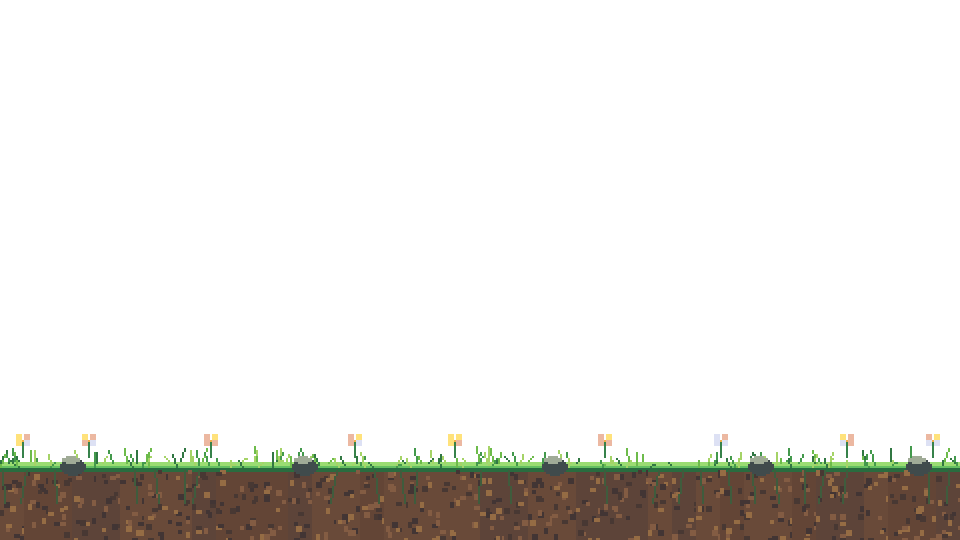
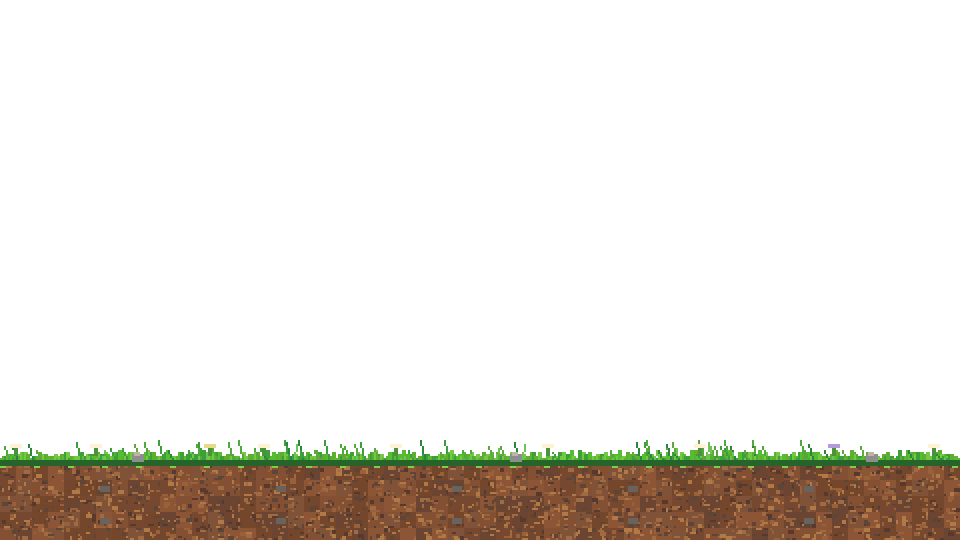
Slimefall v0.6 visual fidelity pass: small tile scale, forest sprites and compact HUD

Changed region(s): [[0.0, 0.8, 1.0, 1.0]]

diff --git a/src/game.js b/src/game.js
@@ -1,4 +1,4 @@
-/* Slimefall: Forest Art Pass v0.5 — an original mobile-first pixel-art boss encounter.
+/* Slimefall: World-Scale Art Pass v0.6 — an original mobile-first pixel-art boss encounter.
    Hand-coded art and mechanics informed by genre research; no Terraria assets used.
    Runs as a static Phaser 3 site. */
 (() => {
@@ -177,8 +177,8 @@
       makeArt(this);this.backdrop();this.land();this.actors();this.interface();
       this.keys=this.input.keyboard.addKeys('A,D,LEFT,RIGHT,SPACE,UP,W,J,K,P,ESC,ENTER,SHIFT');
       this.input.keyboard.addCapture(['SPACE','UP','LEFT','RIGHT','SHIFT']);
-      this.overlay('SLIMEFALL','THE EMERALD FOREST  •  v0.5','A handcrafted pixel forest. One royal slime. One chance to claim the crown.','BEGIN BATTLE');
-      window.slimefall={version:'0.5.0',game:this.game,play:()=>this.closeOverlay(),state:()=>({playing:this.playing,hp:this.hp,bossHP:this.bossHP,bossState:this.bossState,weapon:this.mode,minis:this.minis.length,time:Math.floor(this.seconds)}),reset:()=>this.scene.restart()};
+      this.overlay('SLIMEFALL','FOREST BOSS RUSH  •  v0.6','A small adventurer. A very large slime.','PLAY');
+      window.slimefall={version:'0.6.0',game:this.game,play:()=>this.closeOverlay(),state:()=>({playing:this.playing,hp:this.hp,bossHP:this.bossHP,bossState:this.bossState,weapon:this.mode,minis:this.minis.length,time:Math.floor(this.seconds)}),reset:()=>this.scene.restart()};
     }
     backdrop(){
       const rng=rand(39071),sky=this.add.graphics().setDepth(-60);
@@ -207,7 +207,7 @@
         const fleck=this.add.rectangle(rng()*W,235+rng()*206,i%3?3:4,3,i%4?0xffe79a:0xe0fbcb,.35+rng()*.3).setDepth(-12);
         this.tweens.add({targets:fleck,y:fleck.y-28-rng()*16,alpha:.04,duration:1600+rng()*2800,yoyo:true,repeat:-1,delay:rng()*2100});
       }
-      // v0.5 artwork covers earlier geometric placeholders with authored 2px pixels.
+      // v0.6 grid-aligned art replaces old oversized geometric scenery with authored 2px pixels.
       // Placed above primitive scenery but behind motes, platforms and characters.
       if(this.textures.exists('forest-background'))
         this.add.image(0,0,'forest-background').setOrigin(0,0).setDepth(-20);
@@ -269,33 +269,54 @@
       this.player.setFlipX(false);
     }
     interface(){
+      // A compact game HUD, not oversized dashboard cards. Gameplay stays unchanged.
       const ui=this.add.graphics().setDepth(90);
-      rect(ui,0x173c49,16,14,212,66,.85);rect(ui,0x173c49,291,14,379,70,.86);
-      rect(ui,0x90cfca,16,14,212,3);rect(ui,0xd6c28c,291,14,379,3);
-      this.add.text(27,22,'ADVENTURER',{fontFamily:'monospace',fontSize:'13px',fontStyle:'bold',color:'#e9f5ec',letterSpacing:1}).setDepth(92);
-      this.add.text(307,21,'THE VERDANT CROWN',{fontFamily:'monospace',fontSize:'15px',fontStyle:'bold',color:'#fff1bc'}).setDepth(92);
-      this.hearts=this.add.text(27,45,'', {fontFamily:'monospace',fontSize:'22px',color:'#ff7788'}).setDepth(92);
-      this.bossBar=this.add.graphics().setDepth(92);
-      this.weaponName=this.add.text(24,88,'', {fontFamily:'monospace',fontSize:'14px',fontStyle:'bold',color:'#ffffff',stroke:'#1e374c',strokeThickness:3}).setDepth(92);
-      this.timeText=this.add.text(932,22,'00:00',{fontFamily:'monospace',fontSize:'15px',color:'#28546e',stroke:'#c4e6e4',strokeThickness:2}).setDepth(92).setOrigin(1,0);
-      this.telegraphText=this.add.text(480,111,'',{fontFamily:'monospace',fontSize:'17px',fontStyle:'bold',color:'#fff6bc',stroke:'#254b5b',strokeThickness:5}).setOrigin(.5).setDepth(96);
+      // 5 small, translucent hotbar slots in the upper left, pixel borders.
+      for(let i=0;i<5;i++){
+        const x=13+i*40, y=12;
+        rect(ui,0x202b40,x,y,36,36,.72);
+        rect(ui,0x9a9b9f,x,y,36,2,.80);rect(ui,0x757b8d,x,y+34,36,2,.80);
+        rect(ui,0xa7aabb,x,y,2,36,.80);rect(ui,0x343c50,x+34,y,2,36,.80);
+        if(i===0){rect(ui,0xbdd4db,x+15,y+5,4,17);rect(ui,0x6f9aaa,x+16,y+5,2,11);rect(ui,0xb17a4c,x+11,y+20,11,3);rect(ui,0x7a573d,x+16,y+23,2,6);}
+        if(i===1){rect(ui,0xaa91f5,x+16,y+7,5,9);rect(ui,0xf4e4ff,x+17,y+5,2,4);rect(ui,0x73549c,x+17,y+16,3,13);}
+        if(i>=2){rect(ui,0x666c78,x+11,y+13,12,10,.3);}
+      }
+      this.slotOutline=this.add.graphics().setDepth(94);
+      this.weaponName=this.add.text(14,54,'',{fontFamily:'monospace',fontSize:'12px',fontStyle:'bold',color:'#f7f3df',stroke:'#3e3840',strokeThickness:3}).setDepth(92);
+      this.add.text(751,13,'Life',{fontFamily:'monospace',fontSize:'14px',fontStyle:'bold',color:'#fff5dd',stroke:'#4f405a',strokeThickness:3}).setDepth(92);
+      this.hearts=this.add.text(793,9,'',{fontFamily:'monospace',fontSize:'23px',color:'#ff425c',stroke:'#542e3f',strokeThickness:3}).setDepth(92);
+      this.add.text(757,42,'Mana',{fontFamily:'monospace',fontSize:'12px',color:'#ede1fe',stroke:'#4f405a',strokeThickness:2}).setDepth(92);
       this.manaBar=this.add.graphics().setDepth(92);
+      this.bossBar=this.add.graphics().setDepth(92);
+      this.add.text(W/2,17,'THE VERDANT CROWN',{fontFamily:'monospace',fontSize:'13px',fontStyle:'bold',color:'#fff8dc',stroke:'#344a59',strokeThickness:3}).setOrigin(.5).setDepth(94);
       this.dashBar=this.add.graphics().setDepth(92);
-      this.tipText=this.add.text(482,508,'MOVE  •  DOUBLE JUMP  •  DASH  •  ATTACK  •  SWITCH',{fontFamily:'monospace',fontSize:'12px',fontStyle:'bold',color:'#faf8d0',stroke:'#1d5252',strokeThickness:3}).setOrigin(.5).setDepth(91);
+      this.timeText=this.add.text(936,84,'00:00',{fontFamily:'monospace',fontSize:'12px',color:'#f3f2df',stroke:'#3a5665',strokeThickness:2}).setDepth(92).setOrigin(1,0);
+      this.telegraphText=this.add.text(480,107,'',{fontFamily:'monospace',fontSize:'16px',fontStyle:'bold',color:'#fff0a5',stroke:'#2b4351',strokeThickness:4}).setOrigin(.5).setDepth(96);
+      this.tipText=this.add.text(482,518,'MOVE  •  DOUBLE JUMP  •  DASH  •  ATTACK  •  SWITCH',{fontFamily:'monospace',fontSize:'12px',fontStyle:'bold',color:'#faf8d0',stroke:'#1d5252',strokeThickness:3}).setOrigin(.5).setDepth(91);
       if(window.matchMedia&&window.matchMedia('(pointer:coarse)').matches)this.tipText.setVisible(false);
       this.later(7000,()=>this.tipText.setVisible(false));
-      this.toast=this.add.text(W/2,153,'',{fontFamily:'monospace',fontSize:'14px',fontStyle:'bold',color:'#f5fff7',stroke:'#315a53',strokeThickness:3}).setOrigin(.5).setDepth(95);
+      this.toast=this.add.text(W/2,137,'',{fontFamily:'monospace',fontSize:'14px',fontStyle:'bold',color:'#f5fff7',stroke:'#315a53',strokeThickness:3}).setOrigin(.5).setDepth(95);
       this.redrawUI();
     }
     redrawUI(){
       this.hearts.setText('♥'.repeat(this.hp)+'♡'.repeat(this.maxHP-this.hp));
-      this.weaponName.setText(this.mode==='blade'?'⚔  LEAFBLADE • CLOSE RANGE':'✦  STAR WAND • AUTO AIM');
-      this.bossBar.clear();rect(this.bossBar,0x163748,308,53,343,17);rect(this.bossBar,0xa6dbf2,311,56,337*Math.max(0,this.bossHP/this.bossMax),11);
-      rect(this.bossBar,0xffffff,312,57,335*Math.max(0,this.bossHP/this.bossMax),2,.55);
-      this.manaBar.clear();rect(this.manaBar,0x284968,25,107,150,6,.85);rect(this.manaBar,0xa798f1,26,108,this.mana/100*148,4);
-      this.dashBar.clear();rect(this.dashBar,0x285769,25,120,150,7,.8);
-      const ready=Math.min(1,Math.max(0,(this.clock-this.lastDash)/1000));
-      rect(this.dashBar,0x8eedc7,27,122,146*ready,3);
+      this.weaponName.setText(this.mode==='blade'?'1 • Leafblade':'2 • Star Wand');
+      this.slotOutline.clear();
+      const sx=this.mode==='blade'?11:51;
+      const light=0xf5dfa4;
+      rect(this.slotOutline,light,sx,10,40,2);rect(this.slotOutline,light,sx,48,40,2);
+      rect(this.slotOutline,light,sx,10,2,40);rect(this.slotOutline,light,sx+38,10,2,40);
+      this.bossBar.clear();
+      rect(this.bossBar,0x172939,327,36,306,13,.86);
+      rect(this.bossBar,0x6e7a84,329,38,302,9,.85);
+      rect(this.bossBar,0x91c9eb,330,39,300*Math.max(0,this.bossHP/this.bossMax),7);
+      rect(this.bossBar,0xc6efff,330,39,300*Math.max(0,this.bossHP/this.bossMax),2,.68);
+      this.manaBar.clear();
+      rect(this.manaBar,0x2a3457,797,45,134,8,.92);
+      rect(this.manaBar,0x737ee8,799,47,130*this.mana/100,4);
+      this.dashBar.clear();
+      rect(this.dashBar,0x213546,15,74,137,7,.65);
+      rect(this.dashBar,0x99e4c2,17,76,133*Math.min(1,Math.max(0,(this.clock-this.lastDash)/1000)),3);
     }
     overlay(title,eyebrow,description,action){
       this.playing=false;el('shell').classList.add('menu-open');
@@ -610,5 +631,5 @@
     physics:{default:'arcade',arcade:{gravity:{y:1340},debug:false}},render:{roundPixels:true},
     scene:[VerdantCourt]
   });
-  window.slimefall={version:'0.5.0',game};
+  window.slimefall={version:'0.6.0',game};
 })();

diff --git a/index.html b/index.html
@@ -5,8 +5,8 @@
   <meta name="viewport" content="width=device-width, initial-scale=1, maximum-scale=1, viewport-fit=cover, user-scalable=no"/>
   <meta name="theme-color" content="#24576b"/>
   <meta name="description" content="Slimefall: The Verdant Crown, a free original mobile-friendly pixel-art boss battle."/>
-  <title>Slimefall — Forest Art Pass v0.5</title>
-  <link rel="stylesheet" href="src/style.css?v=0.5.0"/>
+  <title>Slimefall — Forest Art Pass v0.6</title>
+  <link rel="stylesheet" href="src/style.css?v=0.6.0"/>
 </head>
 <body>
   <main id="shell">
@@ -22,6 +22,6 @@
   </main>
   <script src="https://cdnjs.cloudflare.com/ajax/libs/phaser/3.86.0/phaser.min.js"></script>
   <script>if(!window.Phaser)document.getElementById('game').textContent='Could not load the Phaser game engine. Check your connection and reload.';</script>
-  <script src="src/game.js?v=0.5.0"></script>
+  <script src="src/game.js?v=0.6.0"></script>
 </body>
 </html>

diff --git a/src/style.css b/src/style.css
@@ -57,3 +57,13 @@ button{font-family:inherit;cursor:pointer;touch-action:none;-webkit-appearance:n
 .dash{background:#458876c7}
 #rotate{border-radius:2px}
 @media (pointer:coarse) and (max-height:430px){.control{opacity:.87}}
+
+/* v0.6: visual-scale pass. Keep touch targets large, make their treatment unobtrusive. */
+#banner{display:none}
+#top-actions{top:calc(68px + env(safe-area-inset-top))}
+#top-actions button{min-width:33px;height:31px;background:#34475d9a;border:1px solid #c8d0e4a4;border-radius:2px;font-size:16px;box-shadow:0 2px 0 #1724377a}
+.control{border:2px solid #c2c6ce98;border-radius:6px;background:#26394f8a;color:#eff8f6;box-shadow:0 3px 0 #1924338c,inset 0 1px #ffffff33;text-shadow:0 2px #182333b0}
+.attack{background:#6d4c65a3;border-color:#f3bdc5a0}
+.jump{background:#355e76a3}
+.alt,.dash{background:#5261549c}
+.control:active,.control.pressed{background:#648a6dd6;border-color:#f8e8aa}

diff --git a/README.md b/README.md
@@ -15,3 +15,7 @@ Static site: commit index.html, src/ and assets/ to the root of the `main` branc
 ## Limits
 
 These are intentionally original sprites inspired by 2D pixel-art games, not extracted or copied from Terraria. The generated assets have been visually previewed as assembled art; full touchscreen Safari QA still requires device testing. If assets fail to load, the old procedural fallback sprites remain for characters, and the old scenery still displays.
+
+
+## v0.6 scale correction
+World art now uses a fine 2× pixel grid (8 logical / 16 rendered terrain tile size), slimmer forest trees, terrain detail, a smaller player silhouette, and compact hotbar / life / boss HUD, while preserving v0.5 combat. All sprite and landscape PNGs are independently authored for Slimefall; no Terraria assets are redistributed.
